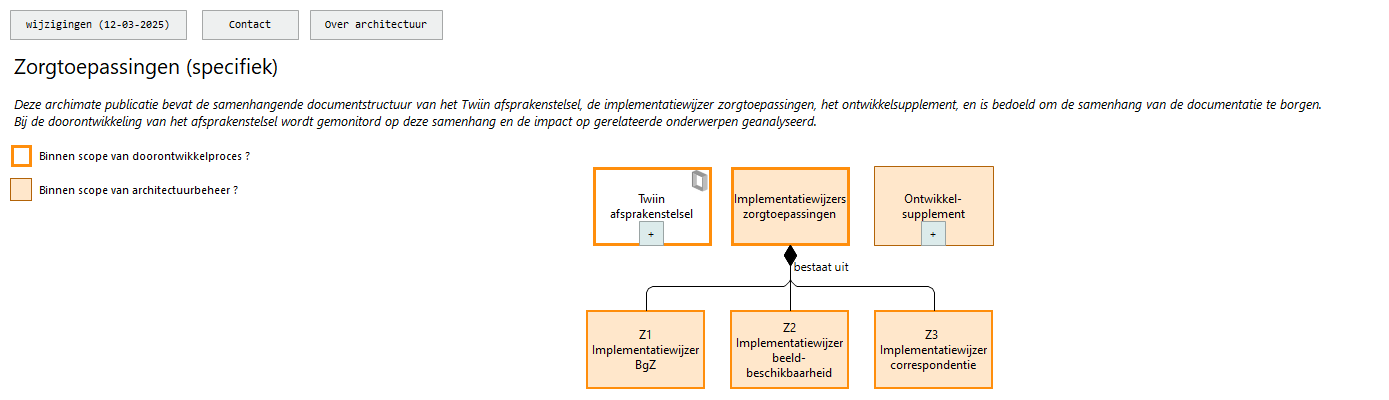
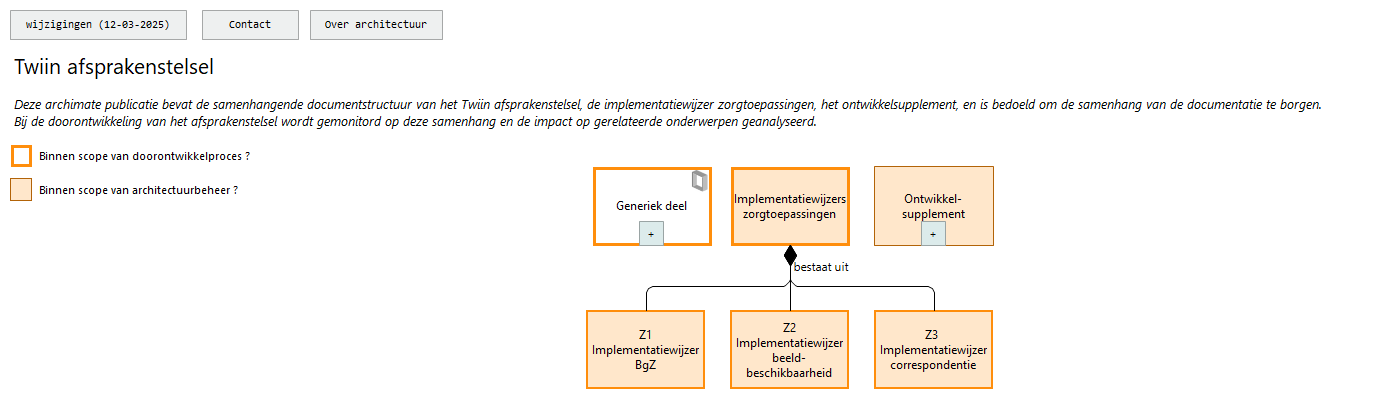
update

Changed region(s): [[0.0, 0.15, 0.2167, 0.21], [0.4334, 0.48, 0.4953, 0.57]]

diff --git a/docs/tw-archi/id-b585bbf4dca74a17a0d9c57ed3b9f891/views/id-9886cbc4dd6046be9bccd9ed287cbc57.html b/docs/tw-archi/id-b585bbf4dca74a17a0d9c57ed3b9f891/views/id-9886cbc4dd6046be9bccd9ed287cbc57.html
@@ -182,7 +182,7 @@
 								</thead>
 								<tbody>
 											<tr>
-											    <td> <a href="../elements/id-9f9d3ee1e7a24553a712e06b5f040220.html" target="element"> Twiin afsprakenstelsel </a> </td>
+											    <td> <a href="../elements/id-9f9d3ee1e7a24553a712e06b5f040220.html" target="element"> Generiek deel </a> </td>
 											    <td> <a href="../elements/id-9f9d3ee1e7a24553a712e06b5f040220.html" target="element" class="i18n-elementtype-Grouping">
 											    </a> </td>
 											</tr>
@@ -591,70 +591,70 @@
 																		<td> <a href="../elements/id-c2cb0a50dfee46688bba403749ac5cb5.html" target="element"> bestaat uit </a> </td>
 																		<td> <a href="../elements/id-c2cb0a50dfee46688bba403749ac5cb5.html" target="element" class="i18n-elementtype-CompositionRelationship">
 																		</a> </td>
-																		<td> <a href="../elements/id-9f9d3ee1e7a24553a712e06b5f040220.html" target="element"> Twiin afsprakenstelsel </a> </td>
+																		<td> <a href="../elements/id-9f9d3ee1e7a24553a712e06b5f040220.html" target="element"> Generiek deel </a> </td>
 																		<td> <a href="../elements/id-ed640334bd044905986d2f0892ddcbce.html" target="element"> 9.0 Voorwaarden </a> </td>
 																	</tr>
 																	<tr>
 																		<td> <a href="../elements/id-dfd106cb44084feba18251118987699c.html" target="element"> bestaat uit </a> </td>
 																		<td> <a href="../elements/id-dfd106cb44084feba18251118987699c.html" target="element" class="i18n-elementtype-CompositionRelationship">
 																		</a> </td>
-																		<td> <a href="../elements/id-9f9d3ee1e7a24553a712e06b5f040220.html" target="element"> Twiin afsprakenstelsel </a> </td>
+																		<td> <a href="../elements/id-9f9d3ee1e7a24553a712e06b5f040220.html" target="element"> Generiek deel </a> </td>
 																		<td> <a href="../elements/id-5139ca09a8ad4f3995c1ac0789b99dac.html" target="element"> 10.0 Technische kern </a> </td>
 																	</tr>
 																	<tr>
 																		<td> <a href="../elements/id-6e001e24bc0b4bec95100de2d668e5de.html" target="element"> bestaat uit </a> </td>
 																		<td> <a href="../elements/id-6e001e24bc0b4bec95100de2d668e5de.html" target="element" class="i18n-elementtype-CompositionRelationship">
 																		</a> </td>
-																		<td> <a href="../elements/id-9f9d3ee1e7a24553a712e06b5f040220.html" target="element"> Twiin afsprakenstelsel </a> </td>
+																		<td> <a href="../elements/id-9f9d3ee1e7a24553a712e06b5f040220.html" target="element"> Generiek deel </a> </td>
 																		<td> <a href="../elements/id-88b12870d3214da19b5eecd1b3cd25b0.html" target="element"> 4.0 Architectuur </a> </td>
 																	</tr>
 																	<tr>
 																		<td> <a href="../elements/id-9d1746cd9c094c268273bdaa12b70486.html" target="element"> bestaat uit </a> </td>
 																		<td> <a href="../elements/id-9d1746cd9c094c268273bdaa12b70486.html" target="element" class="i18n-elementtype-CompositionRelationship">
 																		</a> </td>
-																		<td> <a href="../elements/id-9f9d3ee1e7a24553a712e06b5f040220.html" target="element"> Twiin afsprakenstelsel </a> </td>
+																		<td> <a href="../elements/id-9f9d3ee1e7a24553a712e06b5f040220.html" target="element"> Generiek deel </a> </td>
 																		<td> <a href="../elements/id-8d055f8732634f759ee6dadad7e12087.html" target="element"> 8.0 Diensten </a> </td>
 																	</tr>
 																	<tr>
 																		<td> <a href="../elements/id-645b2aee2e6147e48f3e27350931ea04.html" target="element"> bestaat uit </a> </td>
 																		<td> <a href="../elements/id-645b2aee2e6147e48f3e27350931ea04.html" target="element" class="i18n-elementtype-CompositionRelationship">
 																		</a> </td>
-																		<td> <a href="../elements/id-9f9d3ee1e7a24553a712e06b5f040220.html" target="element"> Twiin afsprakenstelsel </a> </td>
+																		<td> <a href="../elements/id-9f9d3ee1e7a24553a712e06b5f040220.html" target="element"> Generiek deel </a> </td>
 																		<td> <a href="../elements/id-c64dcc3612c64d548009144c1f1472e2.html" target="element"> 3.0 Visie </a> </td>
 																	</tr>
 																	<tr>
 																		<td> <a href="../elements/id-e854dd0e438d44928702fefc0dd8274e.html" target="element"> bestaat uit </a> </td>
 																		<td> <a href="../elements/id-e854dd0e438d44928702fefc0dd8274e.html" target="element" class="i18n-elementtype-CompositionRelationship">
 																		</a> </td>
-																		<td> <a href="../elements/id-9f9d3ee1e7a24553a712e06b5f040220.html" target="element"> Twiin afsprakenstelsel </a> </td>
+																		<td> <a href="../elements/id-9f9d3ee1e7a24553a712e06b5f040220.html" target="element"> Generiek deel </a> </td>
 																		<td> <a href="../elements/id-904539888f1c4552b89a4ae512cab6a0.html" target="element"> 6.0 Governance </a> </td>
 																	</tr>
 																	<tr>
 																		<td> <a href="../elements/id-93be3cba9c7b4097b217db37df83e157.html" target="element"> bestaat uit </a> </td>
 																		<td> <a href="../elements/id-93be3cba9c7b4097b217db37df83e157.html" target="element" class="i18n-elementtype-CompositionRelationship">
 																		</a> </td>
-																		<td> <a href="../elements/id-9f9d3ee1e7a24553a712e06b5f040220.html" target="element"> Twiin afsprakenstelsel </a> </td>
+																		<td> <a href="../elements/id-9f9d3ee1e7a24553a712e06b5f040220.html" target="element"> Generiek deel </a> </td>
 																		<td> <a href="../elements/id-3bb5884468114a0795dfb7f575bcc486.html" target="element"> 1.0 Leeswijzer </a> </td>
 																	</tr>
 																	<tr>
 																		<td> <a href="../elements/id-7863237170fe4a3cbfe20d18bdb91fc2.html" target="element"> bestaat uit </a> </td>
 																		<td> <a href="../elements/id-7863237170fe4a3cbfe20d18bdb91fc2.html" target="element" class="i18n-elementtype-CompositionRelationship">
 																		</a> </td>
-																		<td> <a href="../elements/id-9f9d3ee1e7a24553a712e06b5f040220.html" target="element"> Twiin afsprakenstelsel </a> </td>
+																		<td> <a href="../elements/id-9f9d3ee1e7a24553a712e06b5f040220.html" target="element"> Generiek deel </a> </td>
 																		<td> <a href="../elements/id-c47fd4668755494fa0053d1ea739e53f.html" target="element"> 7.0 Juridische context </a> </td>
 																	</tr>
 																	<tr>
 																		<td> <a href="../elements/id-6849eba38381430d965ef0d91def0302.html" target="element"> bestaat uit </a> </td>
 																		<td> <a href="../elements/id-6849eba38381430d965ef0d91def0302.html" target="element" class="i18n-elementtype-CompositionRelationship">
 																		</a> </td>
-																		<td> <a href="../elements/id-9f9d3ee1e7a24553a712e06b5f040220.html" target="element"> Twiin afsprakenstelsel </a> </td>
+																		<td> <a href="../elements/id-9f9d3ee1e7a24553a712e06b5f040220.html" target="element"> Generiek deel </a> </td>
 																		<td> <a href="../elements/id-f42f72c4cf3d478baae0788829928154.html" target="element"> 5.0 Vertrouwensmodel </a> </td>
 																	</tr>
 																	<tr>
 																		<td> <a href="../elements/id-3fd4a3cd3f064b62b94ed00688a17a56.html" target="element"> bestaat uit </a> </td>
 																		<td> <a href="../elements/id-3fd4a3cd3f064b62b94ed00688a17a56.html" target="element" class="i18n-elementtype-CompositionRelationship">
 																		</a> </td>
-																		<td> <a href="../elements/id-9f9d3ee1e7a24553a712e06b5f040220.html" target="element"> Twiin afsprakenstelsel </a> </td>
+																		<td> <a href="../elements/id-9f9d3ee1e7a24553a712e06b5f040220.html" target="element"> Generiek deel </a> </td>
 																		<td> <a href="../elements/id-9f119b9528274d549a7b89c80f76ee9f.html" target="element"> 2.0 Release informatie </a> </td>
 																	</tr>
 

diff --git a/docs/tw-archi/id-b585bbf4dca74a17a0d9c57ed3b9f891/elements/id-9f9d3ee1e7a24553a712e06b5f040220.html b/docs/tw-archi/id-b585bbf4dca74a17a0d9c57ed3b9f891/elements/id-9f9d3ee1e7a24553a712e06b5f040220.html
@@ -2,7 +2,7 @@
 <html class="frame" lang="en">
 <head>
 	<meta http-equiv="Content-Type" content="text/html;charset=utf-8">
-	<title>Twiin afsprakenstelsel</title>
+	<title>Generiek deel</title>
 
 	<!-- JQUERY -->
 	<script type="text/javascript" src="../../lib/jquery/jquery.min.js"></script>
@@ -21,7 +21,7 @@
 
 		<div class="panel-heading root-panel-heading">
             <!-- Name -->
-               <b>Twiin afsprakenstelsel</b>
+               <b>Generiek deel</b>
 
             <!-- If a View with Viewpoint -->
 			   (<span class="i18n-elementtype-Grouping"></span>)
@@ -100,52 +100,52 @@ website: https://www.twiin.nl/afsprakenstelsel/twiin-afsprakenstelsel</div>
 									<tr>
 											<td><a href="../elements/id-93be3cba9c7b4097b217db37df83e157.html" target="element" title="bestaat uit">bestaat uit</a></td>
 											<td><span class="i18n-elementtype-CompositionRelationship" /></td>
-											<td><a href="../elements/id-9f9d3ee1e7a24553a712e06b5f040220.html" target="element"> Twiin afsprakenstelsel</a></td>
+											<td><a href="../elements/id-9f9d3ee1e7a24553a712e06b5f040220.html" target="element"> Generiek deel</a></td>
 											<td><a href="../elements/id-3bb5884468114a0795dfb7f575bcc486.html" target="element"> 1.0 Leeswijzer</a></td>
 										</tr><tr>
 											<td><a href="../elements/id-dfd106cb44084feba18251118987699c.html" target="element" title="bestaat uit">bestaat uit</a></td>
 											<td><span class="i18n-elementtype-CompositionRelationship" /></td>
-											<td><a href="../elements/id-9f9d3ee1e7a24553a712e06b5f040220.html" target="element"> Twiin afsprakenstelsel</a></td>
+											<td><a href="../elements/id-9f9d3ee1e7a24553a712e06b5f040220.html" target="element"> Generiek deel</a></td>
 											<td><a href="../elements/id-5139ca09a8ad4f3995c1ac0789b99dac.html" target="element"> 10.0 Technische kern</a></td>
 										</tr><tr>
 											<td><a href="../elements/id-6849eba38381430d965ef0d91def0302.html" target="element" title="bestaat uit">bestaat uit</a></td>
 											<td><span class="i18n-elementtype-CompositionRelationship" /></td>
-											<td><a href="../elements/id-9f9d3ee1e7a24553a712e06b5f040220.html" target="element"> Twiin afsprakenstelsel</a></td>
+											<td><a href="../elements/id-9f9d3ee1e7a24553a712e06b5f040220.html" target="element"> Generiek deel</a></td>
 											<td><a href="../elements/id-f42f72c4cf3d478baae0788829928154.html" target="element"> 5.0 Vertrouwensmodel</a></td>
 										</tr><tr>
 											<td><a href="../elements/id-645b2aee2e6147e48f3e27350931ea04.html" target="element" title="bestaat uit">bestaat uit</a></td>
 											<td><span class="i18n-elementtype-CompositionRelationship" /></td>
-											<td><a href="../elements/id-9f9d3ee1e7a24553a712e06b5f040220.html" target="element"> Twiin afsprakenstelsel</a></td>
+											<td><a href="../elements/id-9f9d3ee1e7a24553a712e06b5f040220.html" target="element"> Generiek deel</a></td>
 											<td><a href="../elements/id-c64dcc3612c64d548009144c1f1472e2.html" target="element"> 3.0 Visie</a></td>
 										</tr><tr>
 											<td><a href="../elements/id-7863237170fe4a3cbfe20d18bdb91fc2.html" target="element" title="bestaat uit">bestaat uit</a></td>
 											<td><span class="i18n-elementtype-CompositionRelationship" /></td>
-											<td><a href="../elements/id-9f9d3ee1e7a24553a712e06b5f040220.html" target="element"> Twiin afsprakenstelsel</a></td>
+											<td><a href="../elements/id-9f9d3ee1e7a24553a712e06b5f040220.html" target="element"> Generiek deel</a></td>
 											<td><a href="../elements/id-c47fd4668755494fa0053d1ea739e53f.html" target="element"> 7.0 Juridische context</a></td>
 										</tr><tr>
 											<td><a href="../elements/id-9d1746cd9c094c268273bdaa12b70486.html" target="element" title="bestaat uit">bestaat uit</a></td>
 											<td><span class="i18n-elementtype-CompositionRelationship" /></td>
-											<td><a href="../elements/id-9f9d3ee1e7a24553a712e06b5f040220.html" target="element"> Twiin afsprakenstelsel</a></td>
+											<td><a href="../elements/id-9f9d3ee1e7a24553a712e06b5f040220.html" target="element"> Generiek deel</a></td>
 											<td><a href="../elements/id-8d055f8732634f759ee6dadad7e12087.html" target="element"> 8.0 Diensten</a></td>
 										</tr><tr>
 											<td><a href="../elements/id-3fd4a3cd3f064b62b94ed00688a17a56.html" target="element" title="bestaat uit">bestaat uit</a></td>
 											<td><span class="i18n-elementtype-CompositionRelationship" /></td>
-											<td><a href="../elements/id-9f9d3ee1e7a24553a712e06b5f040220.html" target="element"> Twiin afsprakenstelsel</a></td>
+											<td><a href="../elements/id-9f9d3ee1e7a24553a712e06b5f040220.html" target="element"> Generiek deel</a></td>
 											<td><a href="../elements/id-9f119b9528274d549a7b89c80f76ee9f.html" target="element"> 2.0 Release informatie</a></td>
 										</tr><tr>
 											<td><a href="../elements/id-c2cb0a50dfee46688bba403749ac5cb5.html" target="element" title="bestaat uit">bestaat uit</a></td>
 											<td><span class="i18n-elementtype-CompositionRelationship" /></td>
-											<td><a href="../elements/id-9f9d3ee1e7a24553a712e06b5f040220.html" target="element"> Twiin afsprakenstelsel</a></td>
+											<td><a href="../elements/id-9f9d3ee1e7a24553a712e06b5f040220.html" target="element"> Generiek deel</a></td>
 											<td><a href="../elements/id-ed640334bd044905986d2f0892ddcbce.html" target="element"> 9.0 Voorwaarden</a></td>
 										</tr><tr>
 											<td><a href="../elements/id-6e001e24bc0b4bec95100de2d668e5de.html" target="element" title="bestaat uit">bestaat uit</a></td>
 											<td><span class="i18n-elementtype-CompositionRelationship" /></td>
-											<td><a href="../elements/id-9f9d3ee1e7a24553a712e06b5f040220.html" target="element"> Twiin afsprakenstelsel</a></td>
+											<td><a href="../elements/id-9f9d3ee1e7a24553a712e06b5f040220.html" target="element"> Generiek deel</a></td>
 											<td><a href="../elements/id-88b12870d3214da19b5eecd1b3cd25b0.html" target="element"> 4.0 Architectuur</a></td>
 										</tr><tr>
 											<td><a href="../elements/id-e854dd0e438d44928702fefc0dd8274e.html" target="element" title="bestaat uit">bestaat uit</a></td>
 											<td><span class="i18n-elementtype-CompositionRelationship" /></td>
-											<td><a href="../elements/id-9f9d3ee1e7a24553a712e06b5f040220.html" target="element"> Twiin afsprakenstelsel</a></td>
+											<td><a href="../elements/id-9f9d3ee1e7a24553a712e06b5f040220.html" target="element"> Generiek deel</a></td>
 											<td><a href="../elements/id-904539888f1c4552b89a4ae512cab6a0.html" target="element"> 6.0 Governance</a></td>
 										</tr>
 							</tbody>

diff --git a/docs/tw-archi/index.html b/docs/tw-archi/index.html
@@ -184,7 +184,7 @@
 													</ul>
 													</li><li class="tree-folder "><span><i class="glyphicon glyphicon-triangle-right"></i> 00 </span>
 													<ul>
-																	<li class="tree-element "><a href="id-b585bbf4dca74a17a0d9c57ed3b9f891/elements/id-9f9d3ee1e7a24553a712e06b5f040220.html" target="element"> Twiin afsprakenstelsel </a></li>
+																	<li class="tree-element "><a href="id-b585bbf4dca74a17a0d9c57ed3b9f891/elements/id-9f9d3ee1e7a24553a712e06b5f040220.html" target="element"> Generiek deel </a></li>
 
 													</ul>
 													</li>
@@ -216,43 +216,43 @@
 									<ul>
 													<li class="tree-element "><a href="id-b585bbf4dca74a17a0d9c57ed3b9f891/elements/id-93be3cba9c7b4097b217db37df83e157.html" target="element">
 															bestaat uit
-														(Twiin afsprakenstelsel - 1.0 Leeswijzer) 
+														(Generiek deel - 1.0 Leeswijzer) 
 													</a></li>
 													<li class="tree-element "><a href="id-b585bbf4dca74a17a0d9c57ed3b9f891/elements/id-dfd106cb44084feba18251118987699c.html" target="element">
 															bestaat uit
-														(Twiin afsprakenstelsel - 10.0 Technische kern) 
+														(Generiek deel - 10.0 Technische kern) 
 													</a></li>
 													<li class="tree-element "><a href="id-b585bbf4dca74a17a0d9c57ed3b9f891/elements/id-6849eba38381430d965ef0d91def0302.html" target="element">
 															bestaat uit
-														(Twiin afsprakenstelsel - 5.0 Vertrouwensmodel) 
+														(Generiek deel - 5.0 Vertrouwensmodel) 
 													</a></li>
 													<li class="tree-element "><a href="id-b585bbf4dca74a17a0d9c57ed3b9f891/elements/id-645b2aee2e6147e48f3e27350931ea04.html" target="element">
 															bestaat uit
-														(Twiin afsprakenstelsel - 3.0 Visie) 
+														(Generiek deel - 3.0 Visie) 
 													</a></li>
 													<li class="tree-element "><a href="id-b585bbf4dca74a17a0d9c57ed3b9f891/elements/id-7863237170fe4a3cbfe20d18bdb91fc2.html" target="element">
 															bestaat uit
-														(Twiin afsprakenstelsel - 7.0 Juridische context) 
+														(Generiek deel - 7.0 Juridische context) 
 													</a></li>
 													<li class="tree-element "><a href="id-b585bbf4dca74a17a0d9c57ed3b9f891/elements/id-9d1746cd9c094c268273bdaa12b70486.html" target="element">
 															bestaat uit
-														(Twiin afsprakenstelsel - 8.0 Diensten) 
+														(Generiek deel - 8.0 Diensten) 
 													</a></li>
 													<li class="tree-element "><a href="id-b585bbf4dca74a17a0d9c57ed3b9f891/elements/id-3fd4a3cd3f064b62b94ed00688a17a56.html" target="element">
 															bestaat uit
-														(Twiin afsprakenstelsel - 2.0 Release informatie) 
+														(Generiek deel - 2.0 Release informatie) 
 													</a></li>
 													<li class="tree-element "><a href="id-b585bbf4dca74a17a0d9c57ed3b9f891/elements/id-c2cb0a50dfee46688bba403749ac5cb5.html" target="element">
 															bestaat uit
-														(Twiin afsprakenstelsel - 9.0 Voorwaarden) 
+														(Generiek deel - 9.0 Voorwaarden) 
 													</a></li>
 													<li class="tree-element "><a href="id-b585bbf4dca74a17a0d9c57ed3b9f891/elements/id-6e001e24bc0b4bec95100de2d668e5de.html" target="element">
 															bestaat uit
-														(Twiin afsprakenstelsel - 4.0 Architectuur) 
+														(Generiek deel - 4.0 Architectuur) 
 													</a></li>
 													<li class="tree-element "><a href="id-b585bbf4dca74a17a0d9c57ed3b9f891/elements/id-e854dd0e438d44928702fefc0dd8274e.html" target="element">
 															bestaat uit
-														(Twiin afsprakenstelsel - 6.0 Governance) 
+														(Generiek deel - 6.0 Governance) 
 													</a></li>
 													<li class="tree-element "><a href="id-b585bbf4dca74a17a0d9c57ed3b9f891/elements/id-da4ee6567c384037bea968c4ea8a233b.html" target="element">
 															<span class="i18n-elementtype-CompositionRelationship"></span>

diff --git a/docs/tw-archi/id-b585bbf4dca74a17a0d9c57ed3b9f891/elements/model.html b/docs/tw-archi/id-b585bbf4dca74a17a0d9c57ed3b9f891/elements/model.html
@@ -389,7 +389,7 @@
 										dataFoldersContent.push({folderid:"id-be4994a0fc5f4801b04619c1c43ed730", contentid:"id-13d593a0d8ba47008857c167f93e2418", contenttype:"Folder"});
 										dataFolders.push({id:"id-13d593a0d8ba47008857c167f93e2418", type:"Folder", name:decodeURL("00"), documentation:decodeURL("")});
 											dataFoldersContent.push({folderid:"id-13d593a0d8ba47008857c167f93e2418", contentid:"id-9f9d3ee1e7a24553a712e06b5f040220", contenttype:"Grouping"});
-												dataElements.push({id:"id-9f9d3ee1e7a24553a712e06b5f040220", type:"Grouping", specialization:decodeURL(""), name:decodeURL("Twiin+afsprakenstelsel"), documentation:decodeURL("Het+Twiin+Afsprakenstelsel+is+een+set+samenwerkingsafspraken+voor+het+delen+en+beschikbaar+maken+van+gezondheidsgegevens%3B+veilig+en+betrouwbaar%2C+tussen+zorgaanbieders%2C+zorgnetwerken+en+voorzieningen%2C+interoperabel+op+alle+lagen+en+samen+met+zorgaanbieders+en+leveranciers.%E2%80%8B%0D%0A%0D%0Awebsite%3A+https%3A%2F%2Fwww.twiin.nl%2Fafsprakenstelsel%2Ftwiin-afsprakenstelsel")});
+												dataElements.push({id:"id-9f9d3ee1e7a24553a712e06b5f040220", type:"Grouping", specialization:decodeURL(""), name:decodeURL("Generiek+deel"), documentation:decodeURL("Het+Twiin+Afsprakenstelsel+is+een+set+samenwerkingsafspraken+voor+het+delen+en+beschikbaar+maken+van+gezondheidsgegevens%3B+veilig+en+betrouwbaar%2C+tussen+zorgaanbieders%2C+zorgnetwerken+en+voorzieningen%2C+interoperabel+op+alle+lagen+en+samen+met+zorgaanbieders+en+leveranciers.%E2%80%8B%0D%0A%0D%0Awebsite%3A+https%3A%2F%2Fwww.twiin.nl%2Fafsprakenstelsel%2Ftwiin-afsprakenstelsel")});
 
 
 

diff --git a/docs/tw-archi/id-b585bbf4dca74a17a0d9c57ed3b9f891/elements/id-c47fd4668755494fa0053d1ea739e53f.html b/docs/tw-archi/id-b585bbf4dca74a17a0d9c57ed3b9f891/elements/id-c47fd4668755494fa0053d1ea739e53f.html
@@ -118,7 +118,7 @@ Welke impact hebben wijzigingen binnen dit onderdeel van het afsprakenselsel op 
 									<tr>
 											<td><a href="../elements/id-7863237170fe4a3cbfe20d18bdb91fc2.html" target="element" title="bestaat uit">bestaat uit</a></td>
 											<td><span class="i18n-elementtype-CompositionRelationship" /></td>
-											<td><a href="../elements/id-9f9d3ee1e7a24553a712e06b5f040220.html" target="element"> Twiin afsprakenstelsel</a></td>
+											<td><a href="../elements/id-9f9d3ee1e7a24553a712e06b5f040220.html" target="element"> Generiek deel</a></td>
 											<td><a href="../elements/id-c47fd4668755494fa0053d1ea739e53f.html" target="element"> 7.0 Juridische context</a></td>
 										</tr><tr>
 											<td><a href="../elements/id-bbf610f9e65c4c4dbbf39253e39589f3.html" target="element" title="be&#239;nvloeden">be&#239;nvloeden</a></td>

diff --git a/docs/tw-archi/id-b585bbf4dca74a17a0d9c57ed3b9f891/elements/id-5139ca09a8ad4f3995c1ac0789b99dac.html b/docs/tw-archi/id-b585bbf4dca74a17a0d9c57ed3b9f891/elements/id-5139ca09a8ad4f3995c1ac0789b99dac.html
@@ -144,7 +144,7 @@ Welke impact hebben wijzigingen binnen dit onderdeel van het afsprakenselsel op 
 									<tr>
 											<td><a href="../elements/id-dfd106cb44084feba18251118987699c.html" target="element" title="bestaat uit">bestaat uit</a></td>
 											<td><span class="i18n-elementtype-CompositionRelationship" /></td>
-											<td><a href="../elements/id-9f9d3ee1e7a24553a712e06b5f040220.html" target="element"> Twiin afsprakenstelsel</a></td>
+											<td><a href="../elements/id-9f9d3ee1e7a24553a712e06b5f040220.html" target="element"> Generiek deel</a></td>
 											<td><a href="../elements/id-5139ca09a8ad4f3995c1ac0789b99dac.html" target="element"> 10.0 Technische kern</a></td>
 										</tr><tr>
 											<td><a href="../elements/id-c55280358e6f48bcbaa664d1b4ad57b5.html" target="element" title="be&#239;nvloeden">be&#239;nvloeden</a></td>

diff --git a/docs/tw-archi/id-b585bbf4dca74a17a0d9c57ed3b9f891/elements/id-ed640334bd044905986d2f0892ddcbce.html b/docs/tw-archi/id-b585bbf4dca74a17a0d9c57ed3b9f891/elements/id-ed640334bd044905986d2f0892ddcbce.html
@@ -118,7 +118,7 @@ Welke impact hebben wijzigingen binnen dit onderdeel van het afsprakenselsel op 
 									<tr>
 											<td><a href="../elements/id-c2cb0a50dfee46688bba403749ac5cb5.html" target="element" title="bestaat uit">bestaat uit</a></td>
 											<td><span class="i18n-elementtype-CompositionRelationship" /></td>
-											<td><a href="../elements/id-9f9d3ee1e7a24553a712e06b5f040220.html" target="element"> Twiin afsprakenstelsel</a></td>
+											<td><a href="../elements/id-9f9d3ee1e7a24553a712e06b5f040220.html" target="element"> Generiek deel</a></td>
 											<td><a href="../elements/id-ed640334bd044905986d2f0892ddcbce.html" target="element"> 9.0 Voorwaarden</a></td>
 										</tr><tr>
 											<td><a href="../elements/id-164a6fd7fd734f1ea2579c1eaac22919.html" target="element" title="be&#239;nvloeden">be&#239;nvloeden</a></td>

diff --git a/docs/tw-archi/id-b585bbf4dca74a17a0d9c57ed3b9f891/elements/id-8d055f8732634f759ee6dadad7e12087.html b/docs/tw-archi/id-b585bbf4dca74a17a0d9c57ed3b9f891/elements/id-8d055f8732634f759ee6dadad7e12087.html
@@ -118,7 +118,7 @@ Welke impact hebben wijzigingen binnen dit onderdeel van het afsprakenselsel op 
 									<tr>
 											<td><a href="../elements/id-9d1746cd9c094c268273bdaa12b70486.html" target="element" title="bestaat uit">bestaat uit</a></td>
 											<td><span class="i18n-elementtype-CompositionRelationship" /></td>
-											<td><a href="../elements/id-9f9d3ee1e7a24553a712e06b5f040220.html" target="element"> Twiin afsprakenstelsel</a></td>
+											<td><a href="../elements/id-9f9d3ee1e7a24553a712e06b5f040220.html" target="element"> Generiek deel</a></td>
 											<td><a href="../elements/id-8d055f8732634f759ee6dadad7e12087.html" target="element"> 8.0 Diensten</a></td>
 										</tr><tr>
 											<td><a href="../elements/id-2e859bbfb94d4a76a31a23dd2989926e.html" target="element" title="be&#239;nvloeden">be&#239;nvloeden</a></td>

diff --git a/docs/tw-archi/id-b585bbf4dca74a17a0d9c57ed3b9f891/elements/id-904539888f1c4552b89a4ae512cab6a0.html b/docs/tw-archi/id-b585bbf4dca74a17a0d9c57ed3b9f891/elements/id-904539888f1c4552b89a4ae512cab6a0.html
@@ -128,7 +128,7 @@ Welke impact hebben wijzigingen binnen dit onderdeel van het afsprakenselsel op 
 									<tr>
 											<td><a href="../elements/id-e854dd0e438d44928702fefc0dd8274e.html" target="element" title="bestaat uit">bestaat uit</a></td>
 											<td><span class="i18n-elementtype-CompositionRelationship" /></td>
-											<td><a href="../elements/id-9f9d3ee1e7a24553a712e06b5f040220.html" target="element"> Twiin afsprakenstelsel</a></td>
+											<td><a href="../elements/id-9f9d3ee1e7a24553a712e06b5f040220.html" target="element"> Generiek deel</a></td>
 											<td><a href="../elements/id-904539888f1c4552b89a4ae512cab6a0.html" target="element"> 6.0 Governance</a></td>
 										</tr><tr>
 											<td><a href="../elements/id-a70014a794da4c268929dfa0620d4cc4.html" target="element" title=""></a></td>

diff --git a/docs/tw-archi/id-b585bbf4dca74a17a0d9c57ed3b9f891/elements/id-f42f72c4cf3d478baae0788829928154.html b/docs/tw-archi/id-b585bbf4dca74a17a0d9c57ed3b9f891/elements/id-f42f72c4cf3d478baae0788829928154.html
@@ -132,7 +132,7 @@
 									<tr>
 											<td><a href="../elements/id-6849eba38381430d965ef0d91def0302.html" target="element" title="bestaat uit">bestaat uit</a></td>
 											<td><span class="i18n-elementtype-CompositionRelationship" /></td>
-											<td><a href="../elements/id-9f9d3ee1e7a24553a712e06b5f040220.html" target="element"> Twiin afsprakenstelsel</a></td>
+											<td><a href="../elements/id-9f9d3ee1e7a24553a712e06b5f040220.html" target="element"> Generiek deel</a></td>
 											<td><a href="../elements/id-f42f72c4cf3d478baae0788829928154.html" target="element"> 5.0 Vertrouwensmodel</a></td>
 										</tr><tr>
 											<td><a href="../elements/id-1fb945c84ab84b83ac1c927ed9083c06.html" target="element" title="be&#239;nvloeden">be&#239;nvloeden</a></td>

diff --git a/docs/tw-archi/id-b585bbf4dca74a17a0d9c57ed3b9f891/elements/id-9f119b9528274d549a7b89c80f76ee9f.html b/docs/tw-archi/id-b585bbf4dca74a17a0d9c57ed3b9f891/elements/id-9f119b9528274d549a7b89c80f76ee9f.html
@@ -94,7 +94,7 @@ Welke impact hebben wijzigingen binnen dit onderdeel van het afsprakenselsel op 
 									<tr>
 											<td><a href="../elements/id-3fd4a3cd3f064b62b94ed00688a17a56.html" target="element" title="bestaat uit">bestaat uit</a></td>
 											<td><span class="i18n-elementtype-CompositionRelationship" /></td>
-											<td><a href="../elements/id-9f9d3ee1e7a24553a712e06b5f040220.html" target="element"> Twiin afsprakenstelsel</a></td>
+											<td><a href="../elements/id-9f9d3ee1e7a24553a712e06b5f040220.html" target="element"> Generiek deel</a></td>
 											<td><a href="../elements/id-9f119b9528274d549a7b89c80f76ee9f.html" target="element"> 2.0 Release informatie</a></td>
 										</tr>
 							</tbody>

diff --git a/docs/tw-archi/id-b585bbf4dca74a17a0d9c57ed3b9f891/elements/id-88b12870d3214da19b5eecd1b3cd25b0.html b/docs/tw-archi/id-b585bbf4dca74a17a0d9c57ed3b9f891/elements/id-88b12870d3214da19b5eecd1b3cd25b0.html
@@ -115,7 +115,7 @@ Welke impact hebben wijzigingen binnen dit onderdeel van het afsprakenselsel op 
 									<tr>
 											<td><a href="../elements/id-6e001e24bc0b4bec95100de2d668e5de.html" target="element" title="bestaat uit">bestaat uit</a></td>
 											<td><span class="i18n-elementtype-CompositionRelationship" /></td>
-											<td><a href="../elements/id-9f9d3ee1e7a24553a712e06b5f040220.html" target="element"> Twiin afsprakenstelsel</a></td>
+											<td><a href="../elements/id-9f9d3ee1e7a24553a712e06b5f040220.html" target="element"> Generiek deel</a></td>
 											<td><a href="../elements/id-88b12870d3214da19b5eecd1b3cd25b0.html" target="element"> 4.0 Architectuur</a></td>
 										</tr>
 							</tbody>
